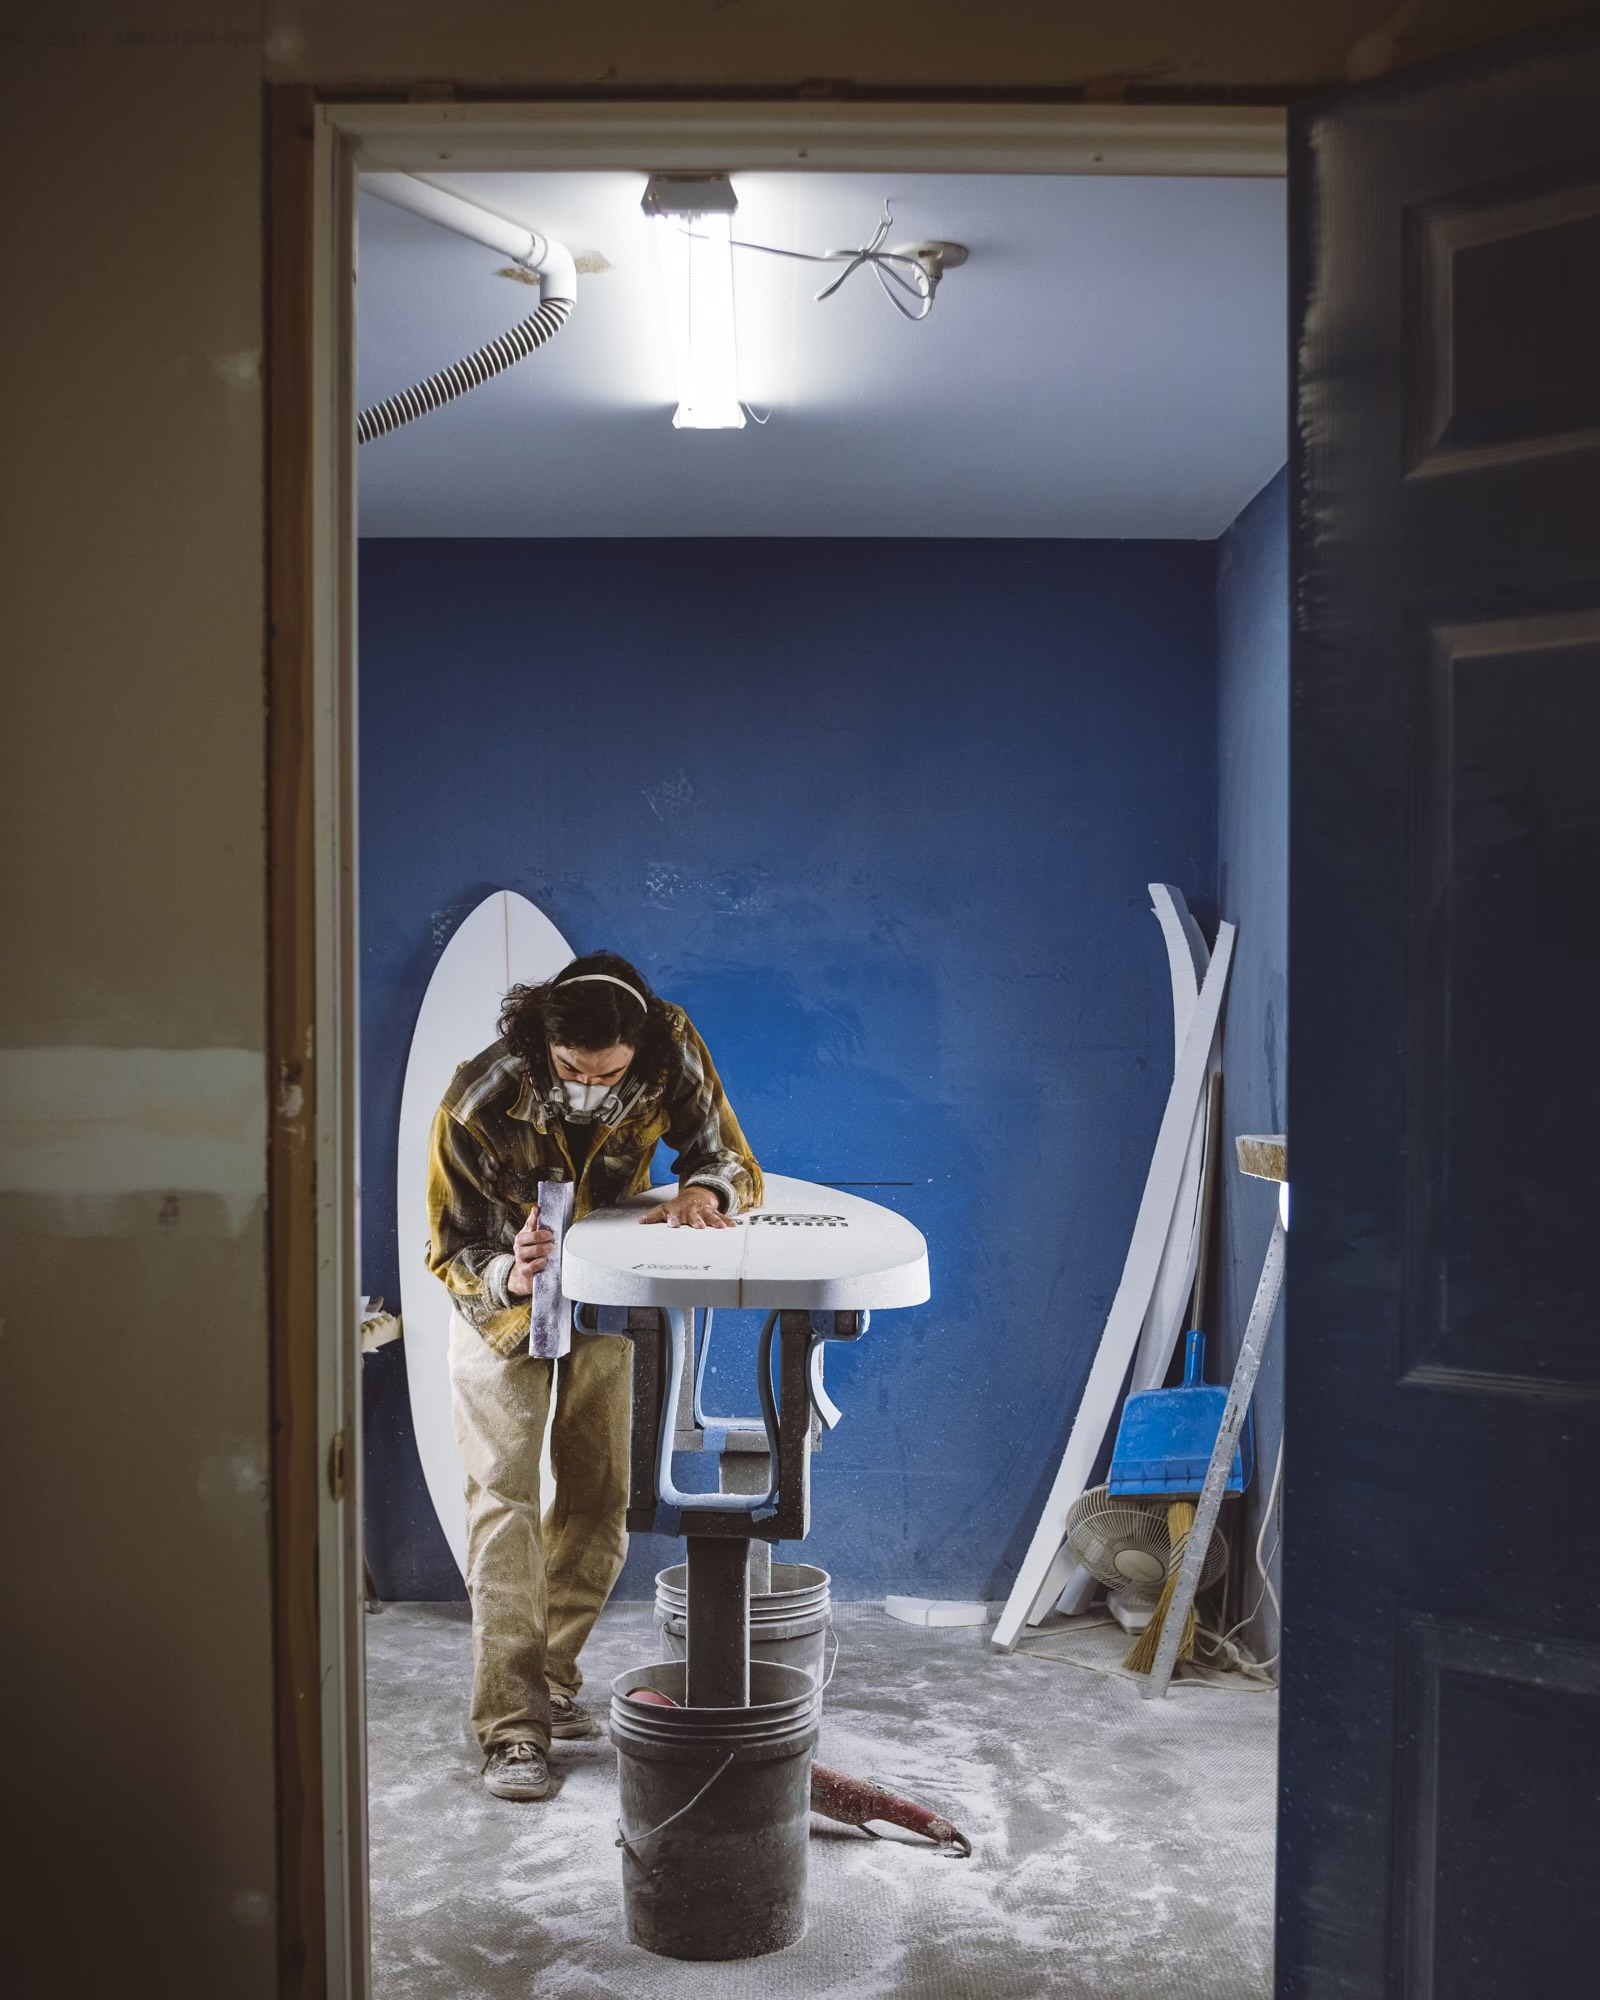
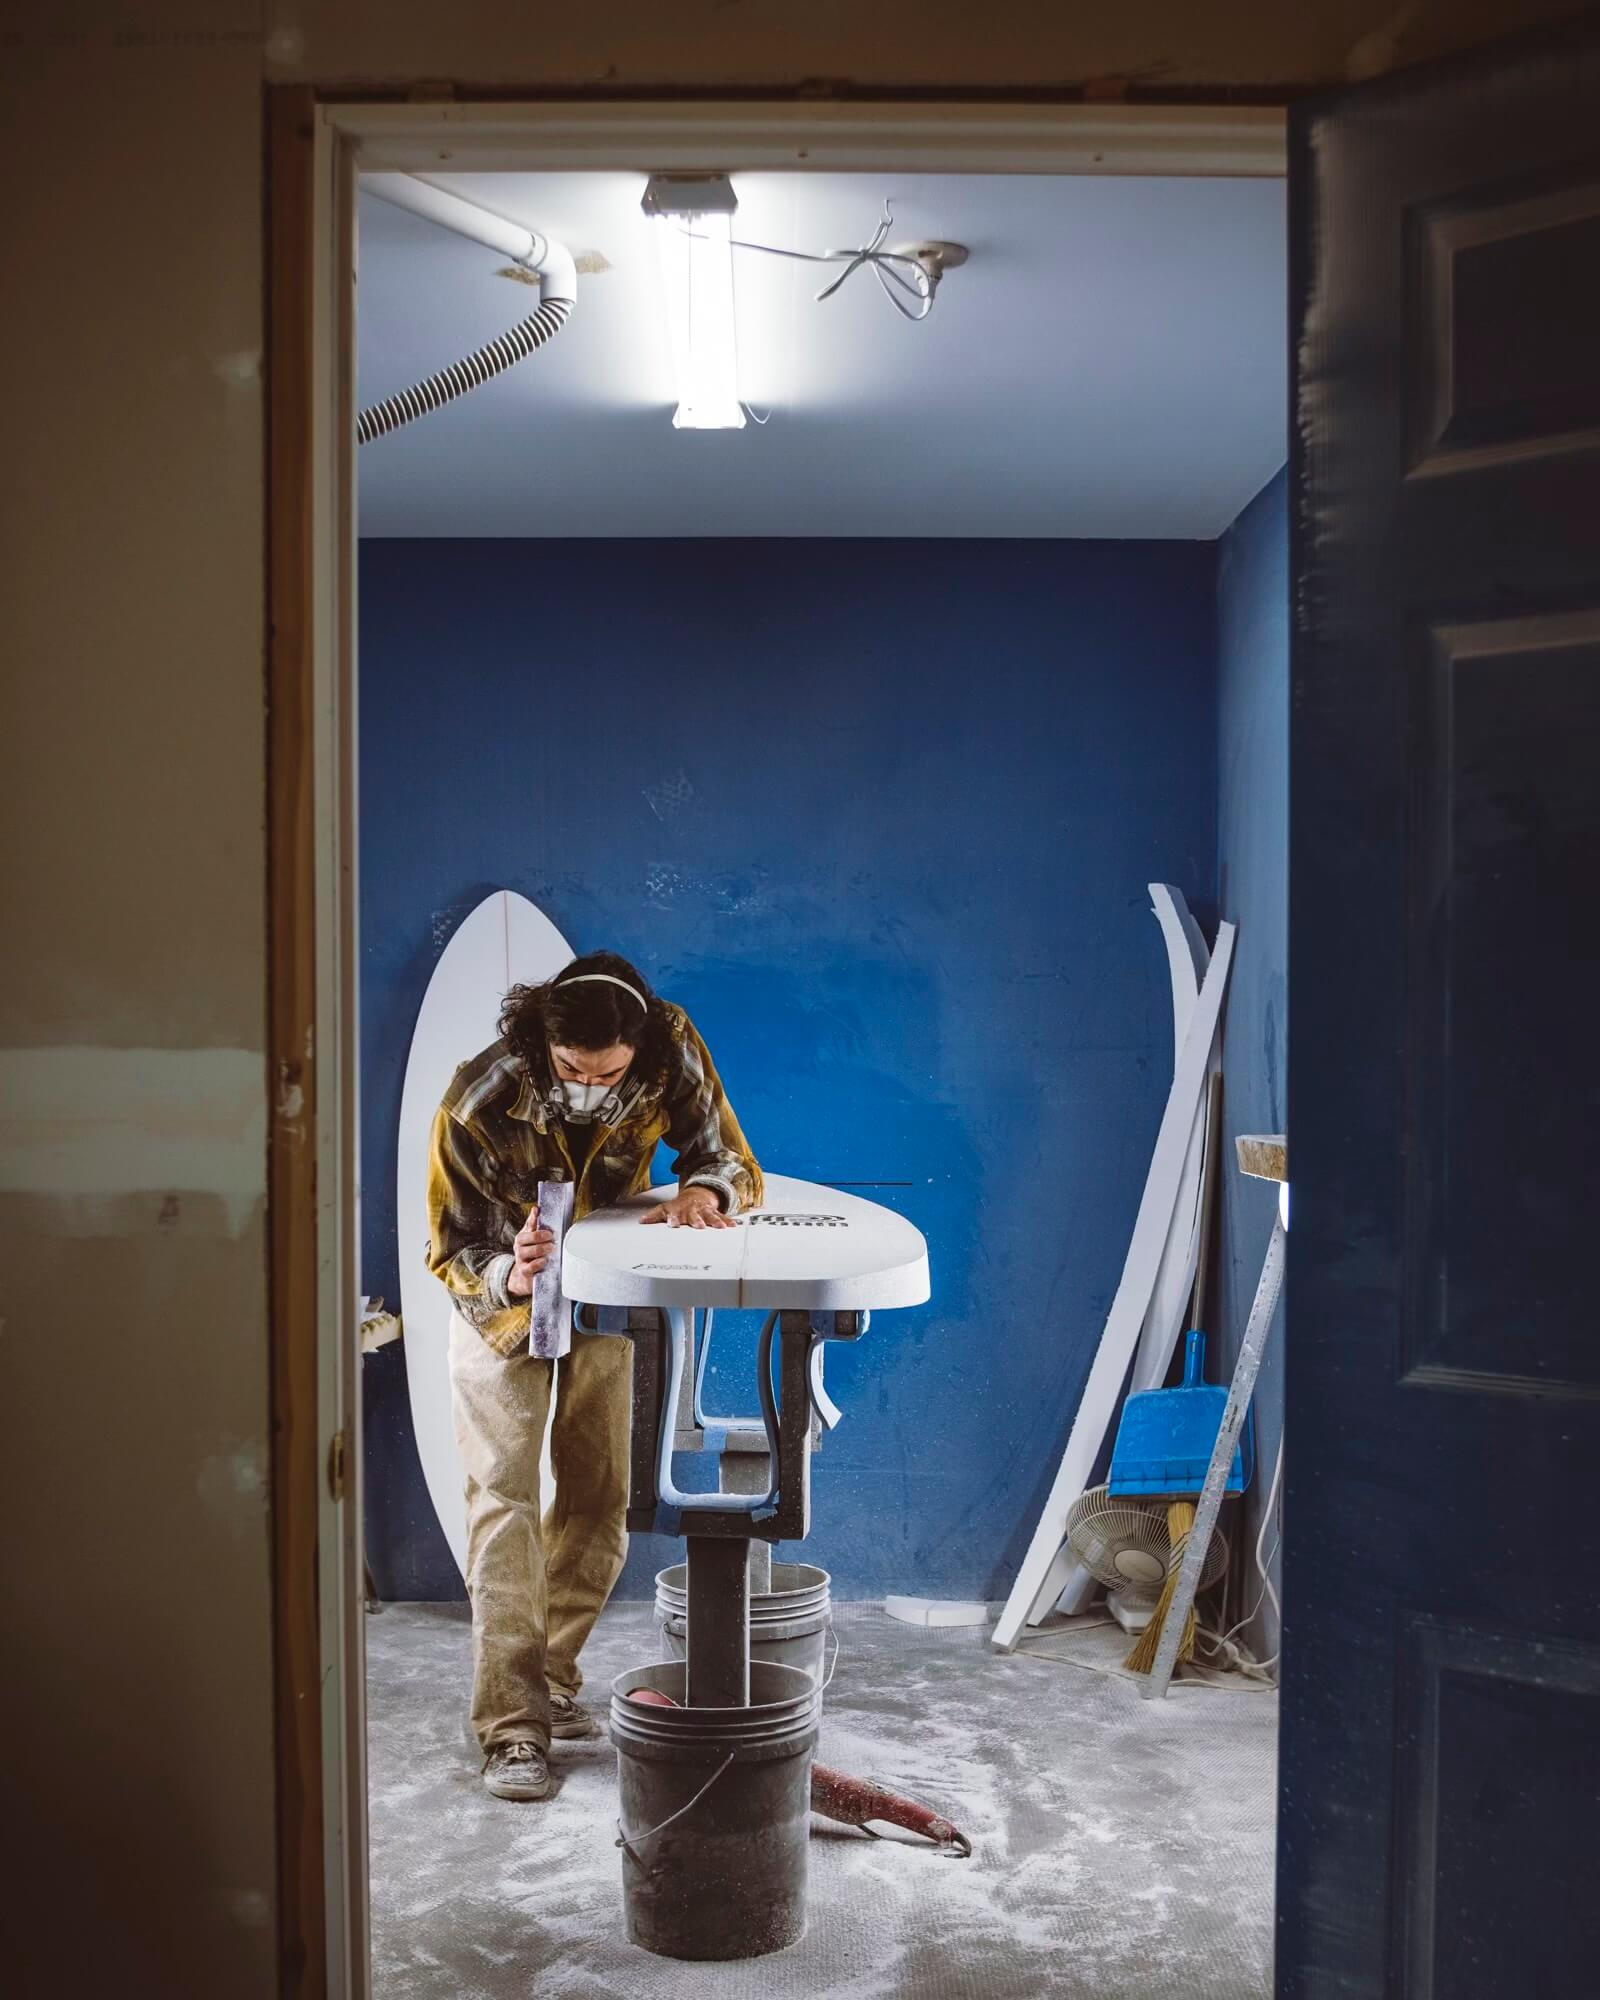
reduce image size

Changed region(s): [[0.3438, 0.434, 0.6562, 0.744], [0.6875, 0.682, 0.7812, 0.744], [0.4062, 0.558, 0.4375, 0.589]]

diff --git a/src/index.css b/src/index.css
@@ -129,7 +129,7 @@ a:hover {
 
 
 .lochsa {
-  background-image: url('./images/snyderLochsa.png');
+  background-image: url('./images/snyderLochsa.jpg');
   background-position: 0% 30%;
   background-size: cover;
   background-repeat: no-repeat;
